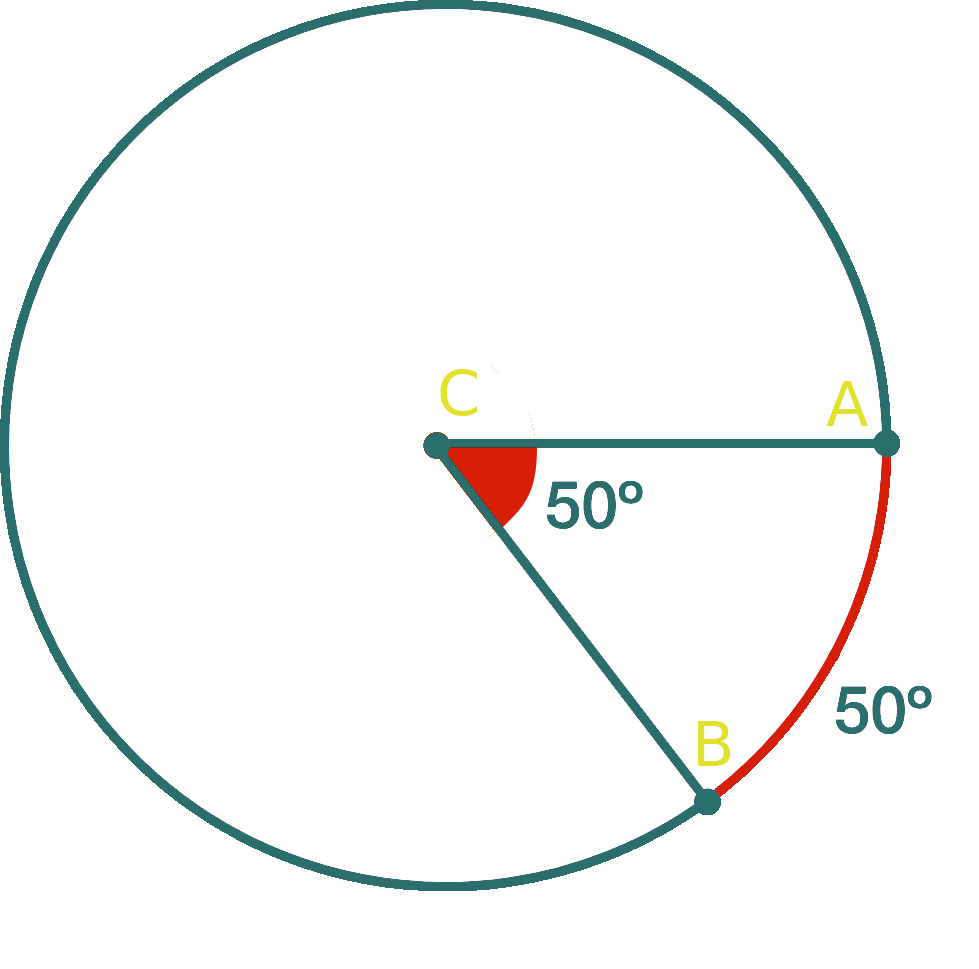
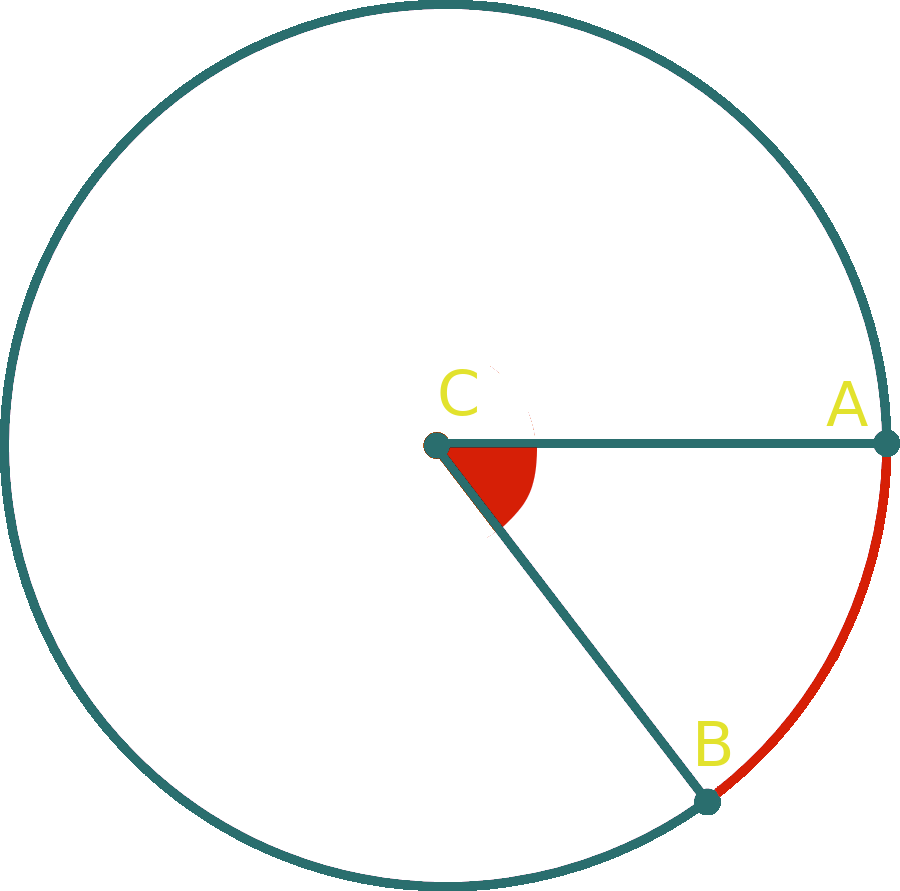
Circle Theorems

diff --git a/Geometry/Circle-Theorems.html b/Geometry/Circle-Theorems.html
@@ -819,9 +819,7 @@ through the center of a circle its known as a diameter</p>
 <div class="sectionbody">
 <div class="stemblock">
 <div class="content">
-\$\angle ACB = 50^\circ
-\$
-\$mACB = 50^\circ\$
+\$\angle ACB = mACB\$
 </div>
 </div>
 <div class="imageblock center">
@@ -891,7 +889,7 @@ through the center of a circle its known as a diameter</p>
 </div>
 <div id="footer">
 <div id="footer-text">
-Last updated 2024-04-11 11:38:34 -0400
+Last updated 2024-04-11 11:40:15 -0400
 </div>
 </div>
 <script type="text/x-mathjax-config">
